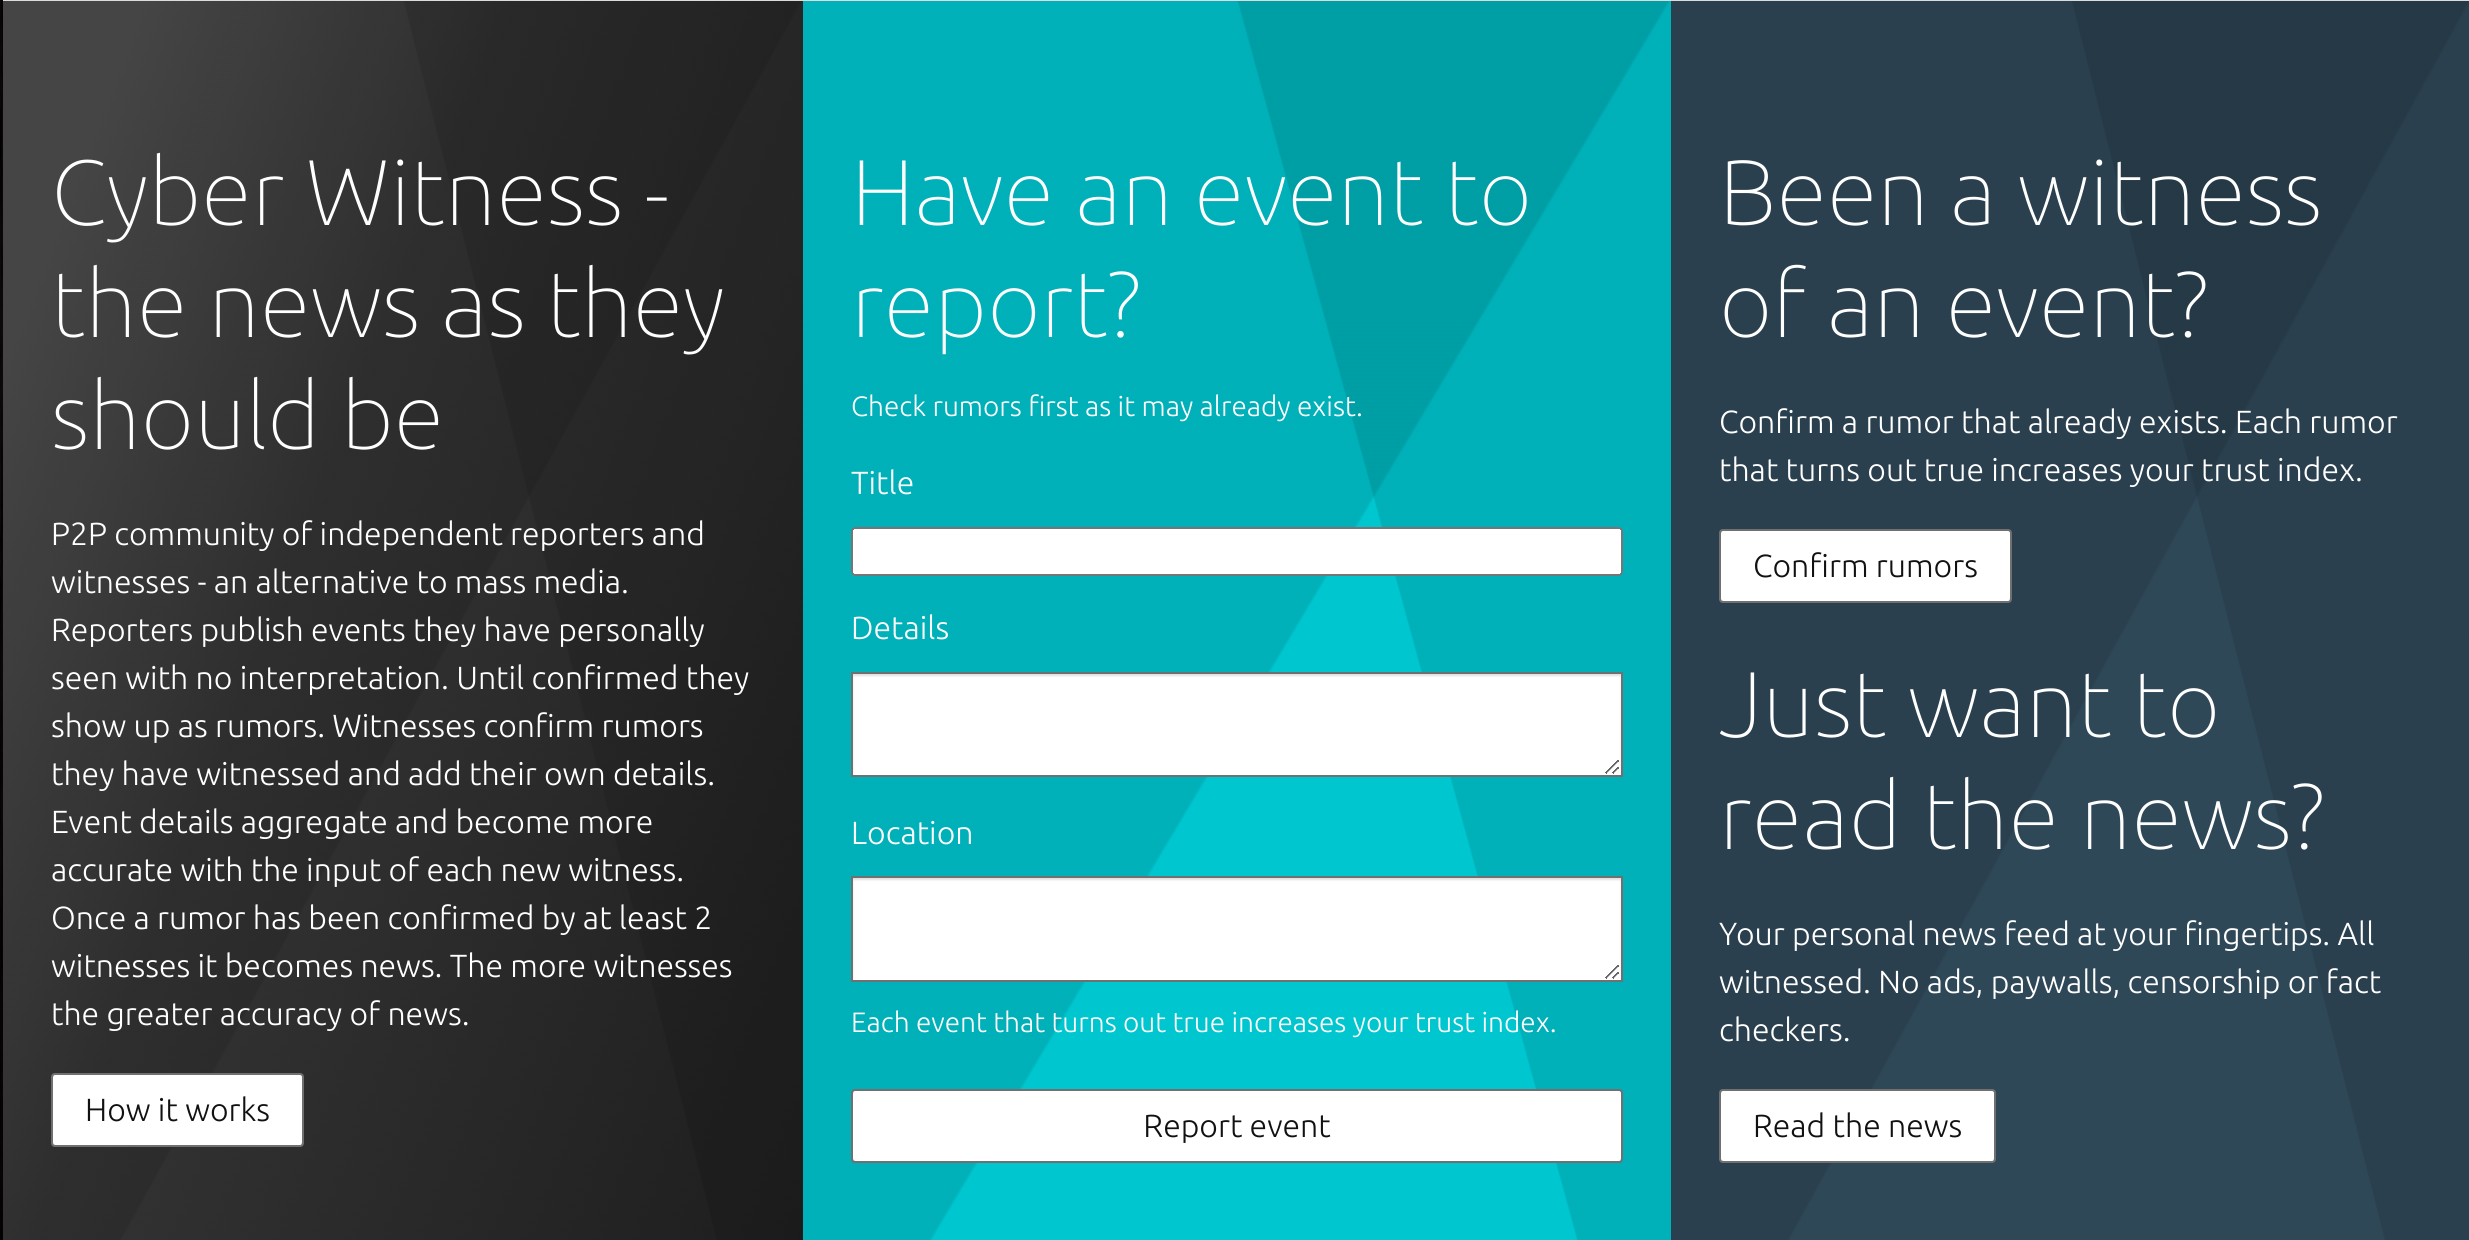
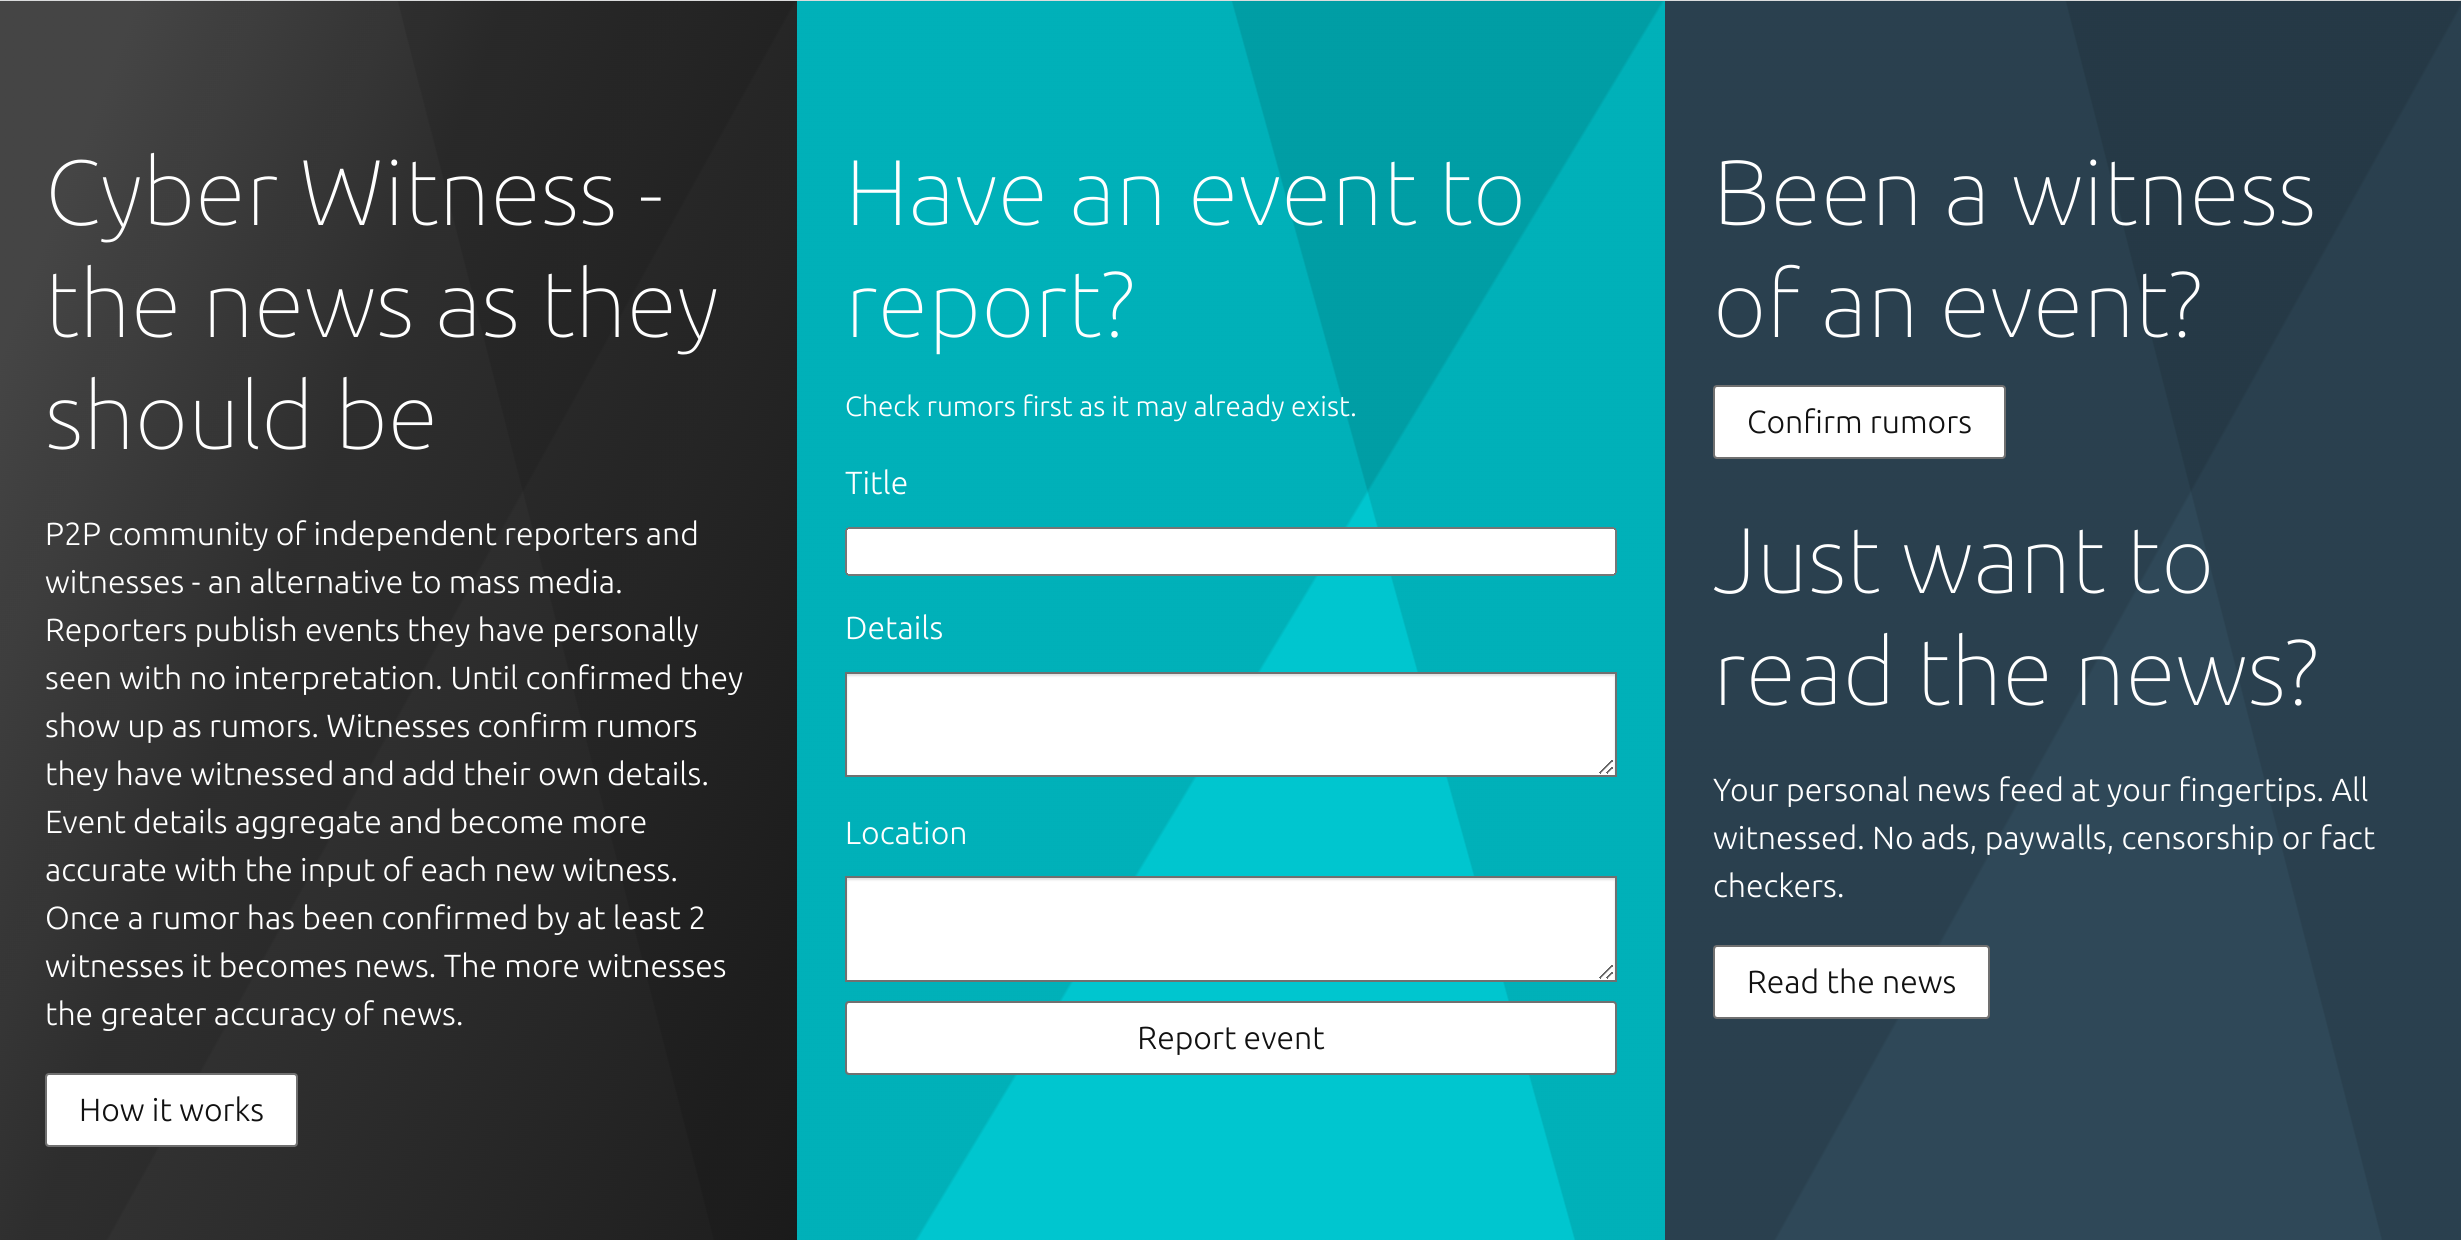
remove unused boilerplate

diff --git a/cyber-witness.go b/cyber-witness.go
@@ -273,9 +273,6 @@ func (w *witness) Render() app.UI {
 						// 	app.Input().Class("is-dense").ID("file").Name("file").Type("file"),
 						// ),
 						app.Div().Class("p-form__group row").Body(
-							app.P().Class("p-form-help-text").ID("reportEvent").Text("Each event that turns out true increases your trust index.").Style("color", "#fff").Style("margin-top", "0"),
-						),
-						app.Div().Class("p-form__group row").Body(
 							app.Button().Class("u-vertically-centered").Text("Report event").OnClick(w.onSubmitEvent),
 						),
 					),
@@ -286,7 +283,6 @@ func (w *witness) Render() app.UI {
 			app.Div().Class("row u-vertically-center").Body(
 				app.Div().Class("col-12").Body(
 					app.H1().Text("Been a witness of an event?"),
-					app.P().Text("Confirm a rumor that already exists. Each rumor that turns out true increases your trust index."),
 					app.Button().Text("Confirm rumors").OnClick(w.openRumorsDialog),
 				),
 			),
